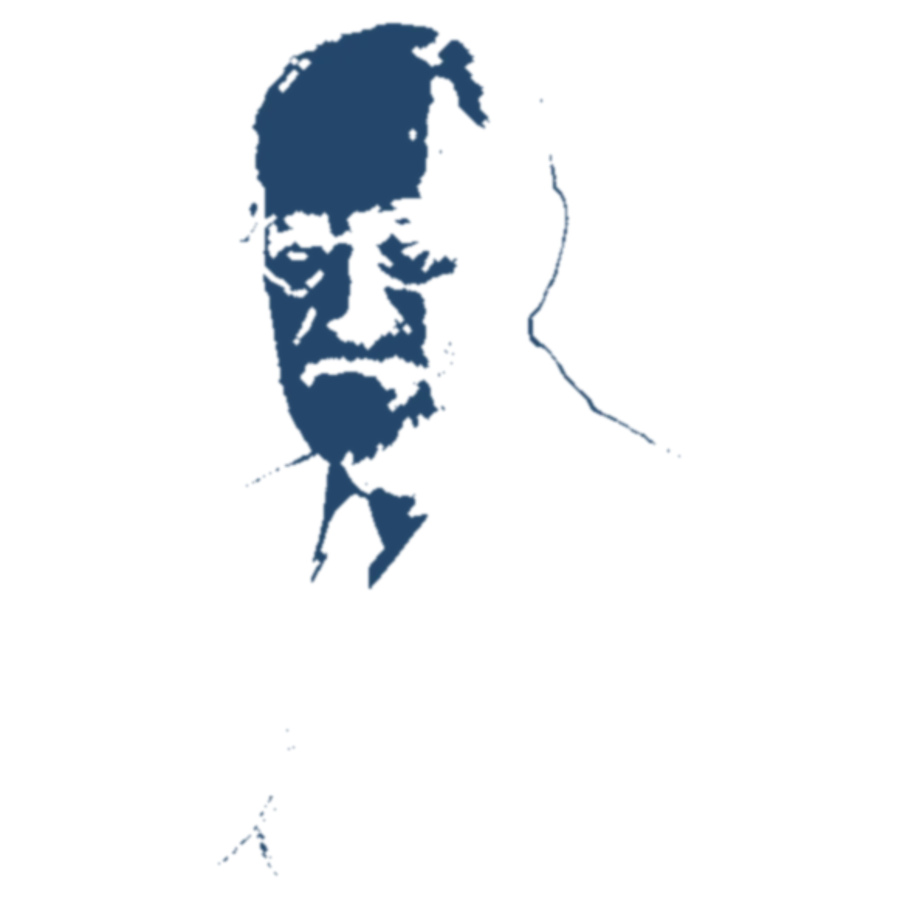
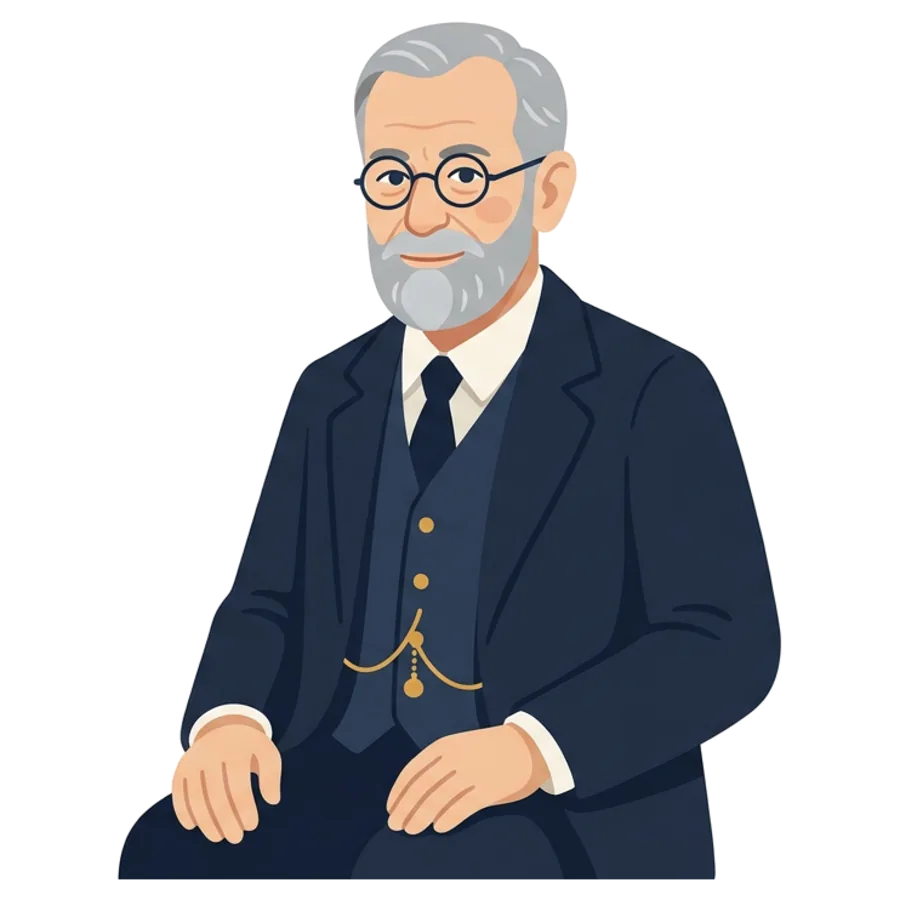
Thinkers: complete the cartoon set — Freud & Jung replace the interim stencils
Same style C pipeline: transparent WebP 900x900 + 420x420, no photographic
asset remains in public/visuals/thinkers/. CHANGELOG wording updated.

diff --git a/docs/CHANGELOG.md b/docs/CHANGELOG.md
@@ -12,7 +12,7 @@ The photographic thinker engravings never matched this platform's identity. They
 - **Every section / page band is covered**: all CMS sections (`blocks.tsx`, skipped automatically when a section already carries its own figure — hero, teacher card, subject/course cards — keeping the "one figure per surface" rule), plus the openings of `/about`, `/study`, `/study/:subject`, `/programs(.:slug)`, `/grades/:slug`, `/subjects/:slug`, `/courses(.:slug)`, `/curriculum/:slug`, `/products/:slug` and the lesson page.
 - **Owner photo slot stays honest**: with no published photo the hero no longer shows a navy photo-plate stand-in. It is an empty identity card (real name/title/tagline from Settings → Identity only) with two transparent philosophers (Ibn Rushd + Plato, `heroFrameThinkers()`) standing in its bottom corners — AROUND the slot, never inside it. The same pair frames the photo once the owner uploads it (Admin → Appearance → Identity), on the homepage and `/about`.
 - **CSS system rewritten** (`app/app.css`): no duotone filter or photo-crop gymnastics remain; transparency + corner masks do the work. New modifiers `--wash/--frame/--start/--end/--top` with phone-specific size/opacity.
-- **Interim for Freud & Jung**: their cartoon portraits land in the follow-up batch (image-generation cap this turn); until then both ship as navy stencil silhouettes derived from the old photos so no photographic rectangle can appear anywhere.
+- **Freud & Jung** complete the set of twelve cartoon portraits (same style C, same transparent pipeline); no photographic asset remains anywhere in `public/visuals/thinkers/`.
 
 ### Verification
 - `tsc --noEmit` clean; `lint:imports` clean; unit **455/455** (39 files) including the rewritten hero-identity contract (empty slot ⇒ no `/files/`, no `hero-philosophy`, no `thinker-plate`, exactly one eager hero visual either way) and new backdrop-assignment tests.
